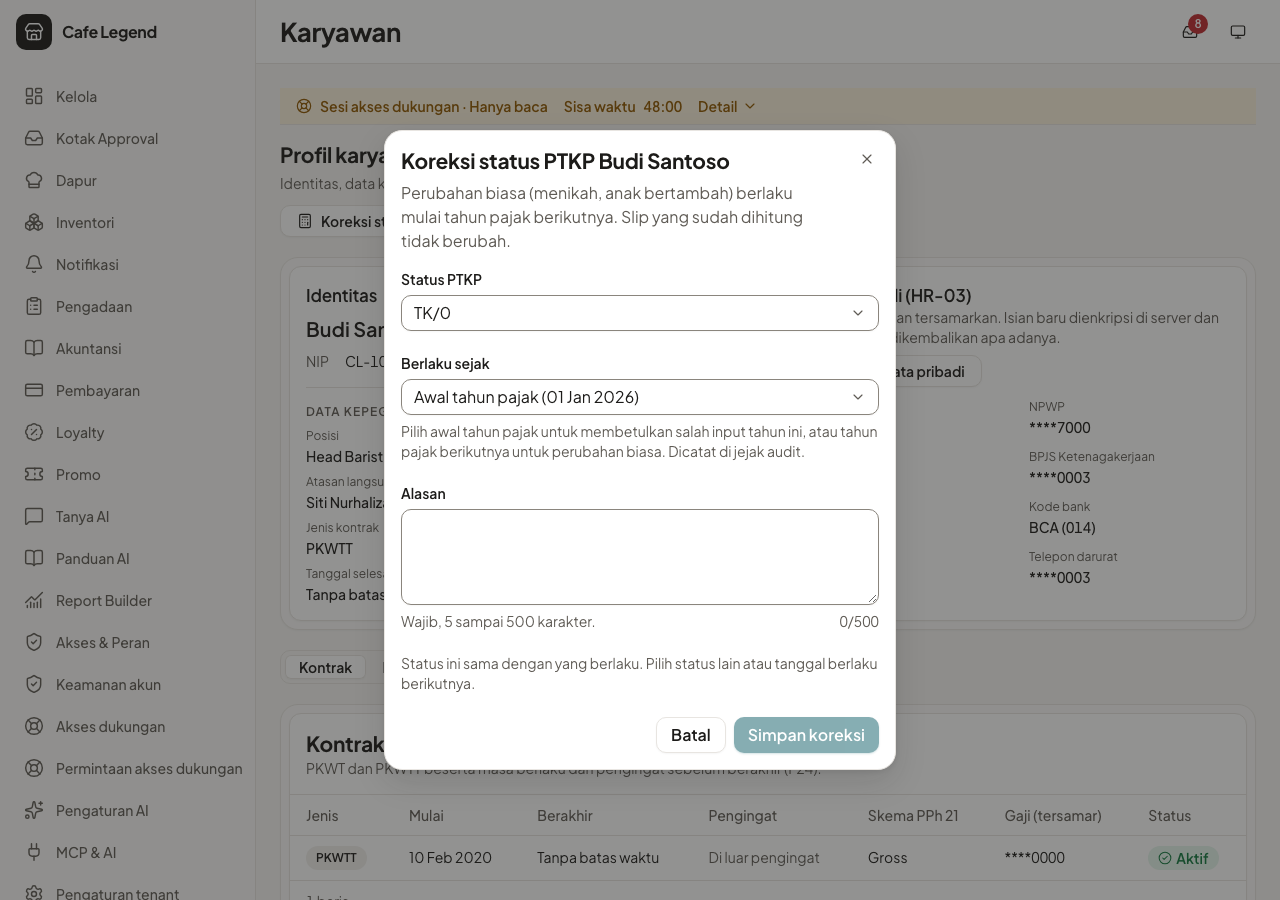
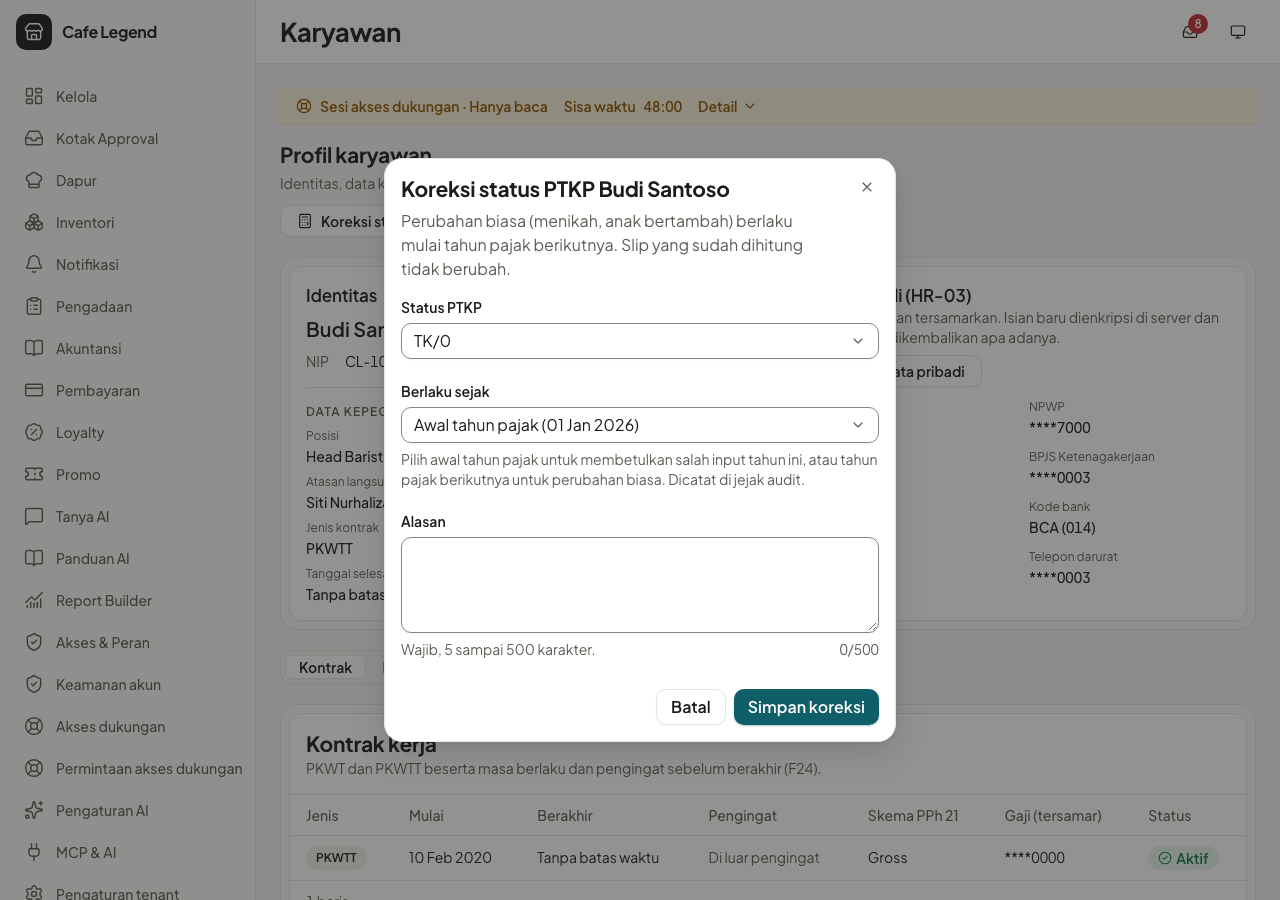
fix(ui): drop client-side same-status block in PTKP dialog, API validates (1228)

Changed region(s): [[0.2812, 0.1244, 0.7188, 0.5911], [0.2812, 0.6844, 0.7188, 0.8711], [0.6562, 0.3422, 0.6875, 0.3733]]

diff --git a/apps/web/src/features/ws10-employee-master/components/ptkp-correction-dialog.tsx b/apps/web/src/features/ws10-employee-master/components/ptkp-correction-dialog.tsx
@@ -124,8 +124,6 @@ function PtkpForm({
   // One key per distinct input: it changes only when the input changes, so a
   // retry of the same input after a failure is deduplicated by the API.
   const idempotencyKey = React.useRef(newIdempotencyKey());
-  // Correcting to the status already in force changes nothing.
-  const sameAsInForce = day === "anchor" && status === employee.ptkpStatus;
 
   function submit(event: React.FormEvent) {
     event.preventDefault();
@@ -144,7 +142,6 @@ function PtkpForm({
       formRef.current?.querySelector<HTMLElement>("#ptkp-status")?.focus();
       return;
     }
-    if (sameAsInForce) return;
     if (reasonBad) {
       reasonRef.current?.focus();
       return;
@@ -278,11 +275,6 @@ function PtkpForm({
               }}
             />
           </FormField>
-          {sameAsInForce && (
-            <p className="text-sm leading-5 text-muted-foreground">
-              {t("employeeMaster.profile.ptkp.sameAsInForce")}
-            </p>
-          )}
           {formError && (
             <p
               className="text-sm leading-5 font-medium text-danger"
@@ -300,11 +292,7 @@ function PtkpForm({
             >
               {t("employeeMaster.profile.ptkp.cancel")}
             </Button>
-            <Button
-              type="submit"
-              loading={correct.isPending}
-              disabled={sameAsInForce}
-            >
+            <Button type="submit" loading={correct.isPending}>
               {t("employeeMaster.profile.ptkp.save")}
             </Button>
           </DialogFooter>

diff --git a/packages/shared/src/i18n/messages/ws10-employee-master.ts b/packages/shared/src/i18n/messages/ws10-employee-master.ts
@@ -126,8 +126,6 @@ export const employeeMasterMessages = {
       effectiveAnchor: "Awal tahun pajak ({date})",
       effectiveAnchorJoin: "Tanggal masuk ({date})",
       effectiveNextYear: "Mulai tahun pajak berikutnya ({date})",
-      sameAsInForce:
-        "Status ini sama dengan yang berlaku. Pilih status lain atau tanggal berlaku berikutnya.",
       reasonLabel: "Alasan",
       reasonHint: "Wajib, 5 sampai 500 karakter.",
       reasonError: "Tulis alasan koreksi, 5 sampai 500 karakter.",
